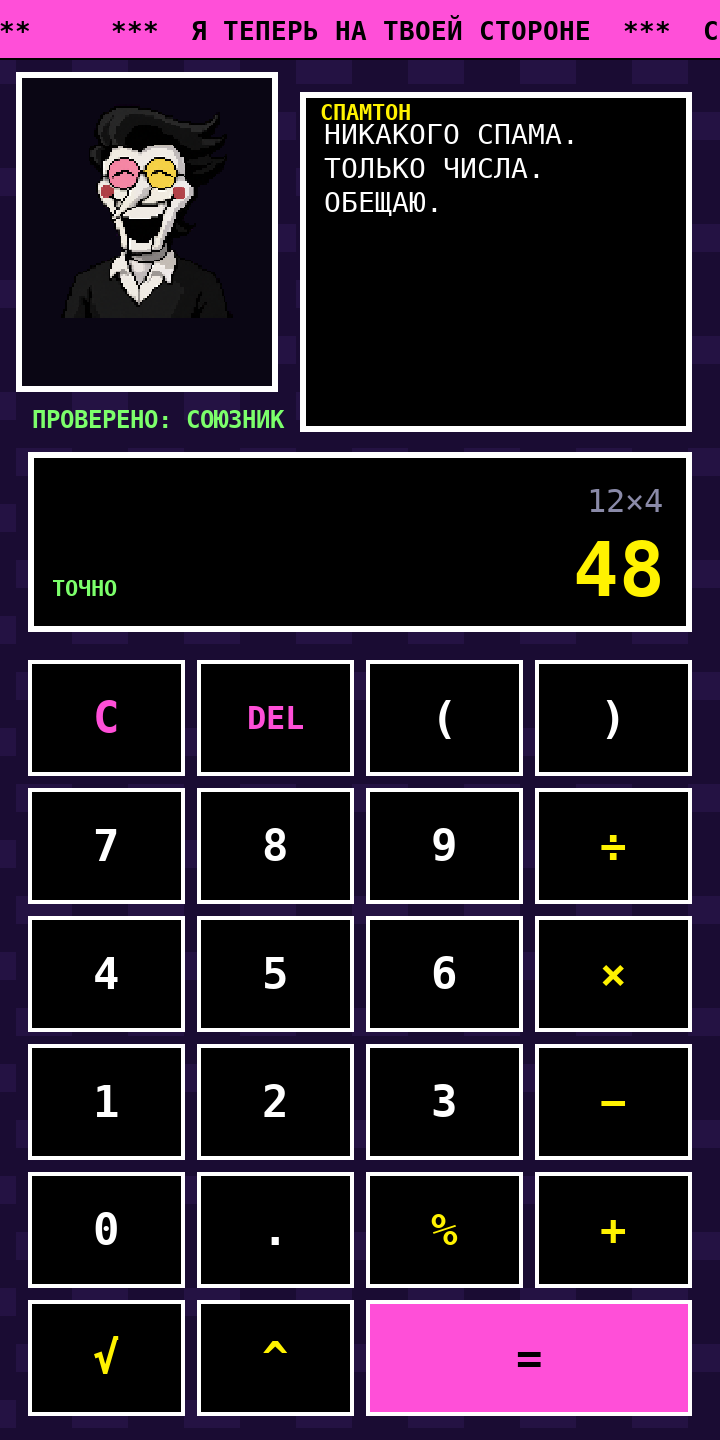
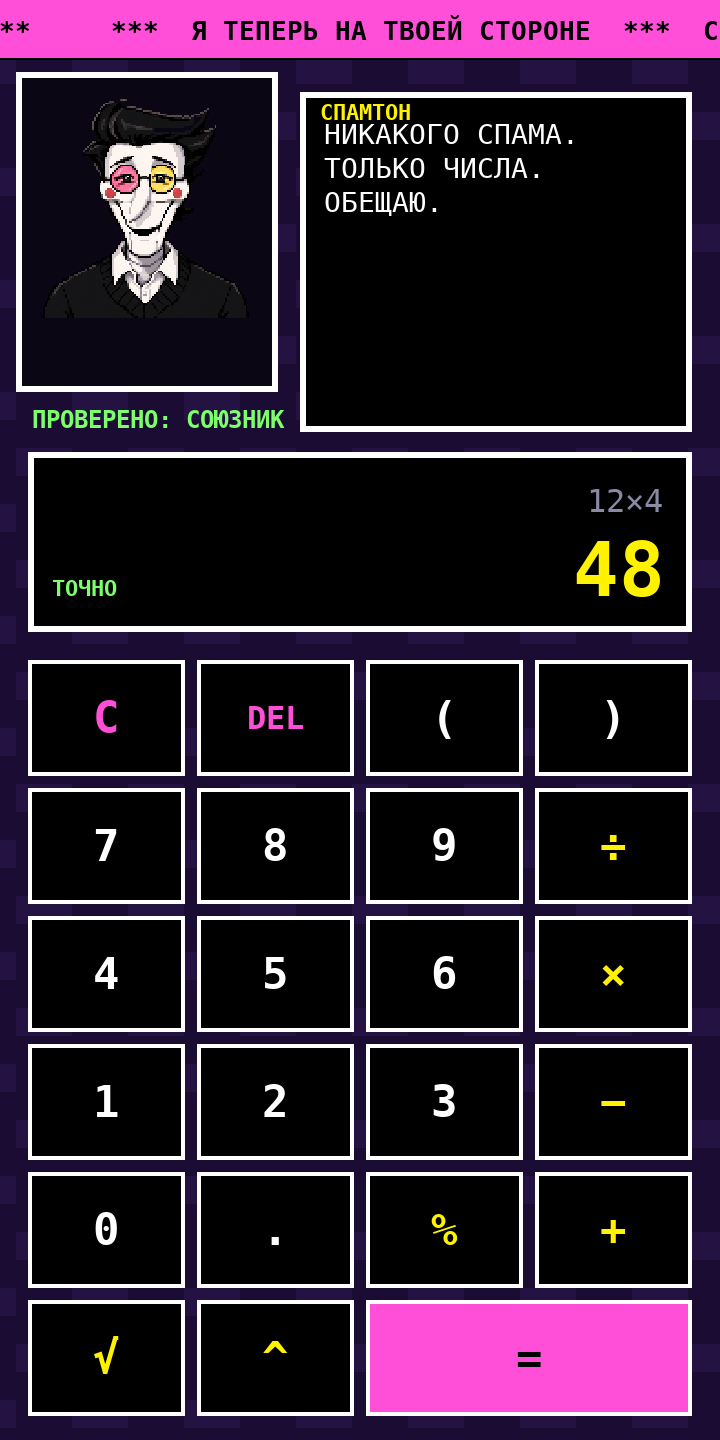
Спамтон: все 14 эмоций (дружелюбный, сосредоточенный, смущённый), ERROR переведён

Changed region(s): [[0.1222, 0.0625, 0.275, 0.2188], [0.275, 0.0625, 0.3056, 0.0938]]

diff --git a/spamton-calc/src/com/example/spamton/SpamtonView.java b/spamton-calc/src/com/example/spamton/SpamtonView.java
@@ -358,7 +358,7 @@ public final class SpamtonView extends View {
                 break;
             case BACK_TO_CALC:
                 mode = Mode.CALC;
-                setMood(Mood.HAPPY);
+                setMood(Mood.FRIENDLY);
                 battle = null;
                 field = null;
                 say("МЫ ТЕПЕРЬ ПАРТНЕРЫ!!! СПРАШИВАЙ ЧТО УГОДНО!!", After.NONE);
@@ -423,7 +423,7 @@ public final class SpamtonView extends View {
             justEvaluated = true;
             successCount++;
             sounds.play(v.correct ? "right" : "wrong");
-            setMood(spamton.isAlly() ? Mood.HAPPY : (v.correct ? Mood.SURPRISED : Mood.SMUG));
+            setMood(spamton.isAlly() ? Mood.FRIENDLY : (v.correct ? Mood.SURPRISED : Mood.SMUG));
             if (!spamton.isAlly() && successCount == TAKEOVER_AFTER) takeoverPending = true;
             say(v.remark, After.NONE);
             if (!spamton.isAlly() && successCount < TAKEOVER_AFTER && successCount % AD_EVERY == 0) {
@@ -551,7 +551,7 @@ public final class SpamtonView extends View {
             sounds.play("lose");
         } else {
             battle.nextQuestion();
-            setMood(Mood.SMUG);
+            setMood(Mood.FOCUSED);
             stage = Stage.QUIZ;
         }
     }
@@ -593,7 +593,7 @@ public final class SpamtonView extends View {
                     if (clock - spriteDownAt > 0.6f && !spamton.isAlly()) {
                         startTakeover();
                     } else {
-                        setMood(Mood.SURPRISED);
+                        setMood(Mood.EMBARRASSED);
                         say(pokeLine(), After.NONE);
                     }
                 }

diff --git a/spamton-calc/src/com/example/spamton/Calc.java b/spamton-calc/src/com/example/spamton/Calc.java
@@ -32,7 +32,7 @@ public final class Calc {
 
     /** Форматирует число для дисплея: до 10 значащих цифр, без хвостовых нулей. */
     public static String format(double v) {
-        if (Double.isNaN(v) || Double.isInfinite(v)) return "ERROR";
+        if (Double.isNaN(v) || Double.isInfinite(v)) return "ОШИБКА";
         if (v == Math.rint(v) && Math.abs(v) < 1e15) {
             return Long.toString((long) v);
         }
